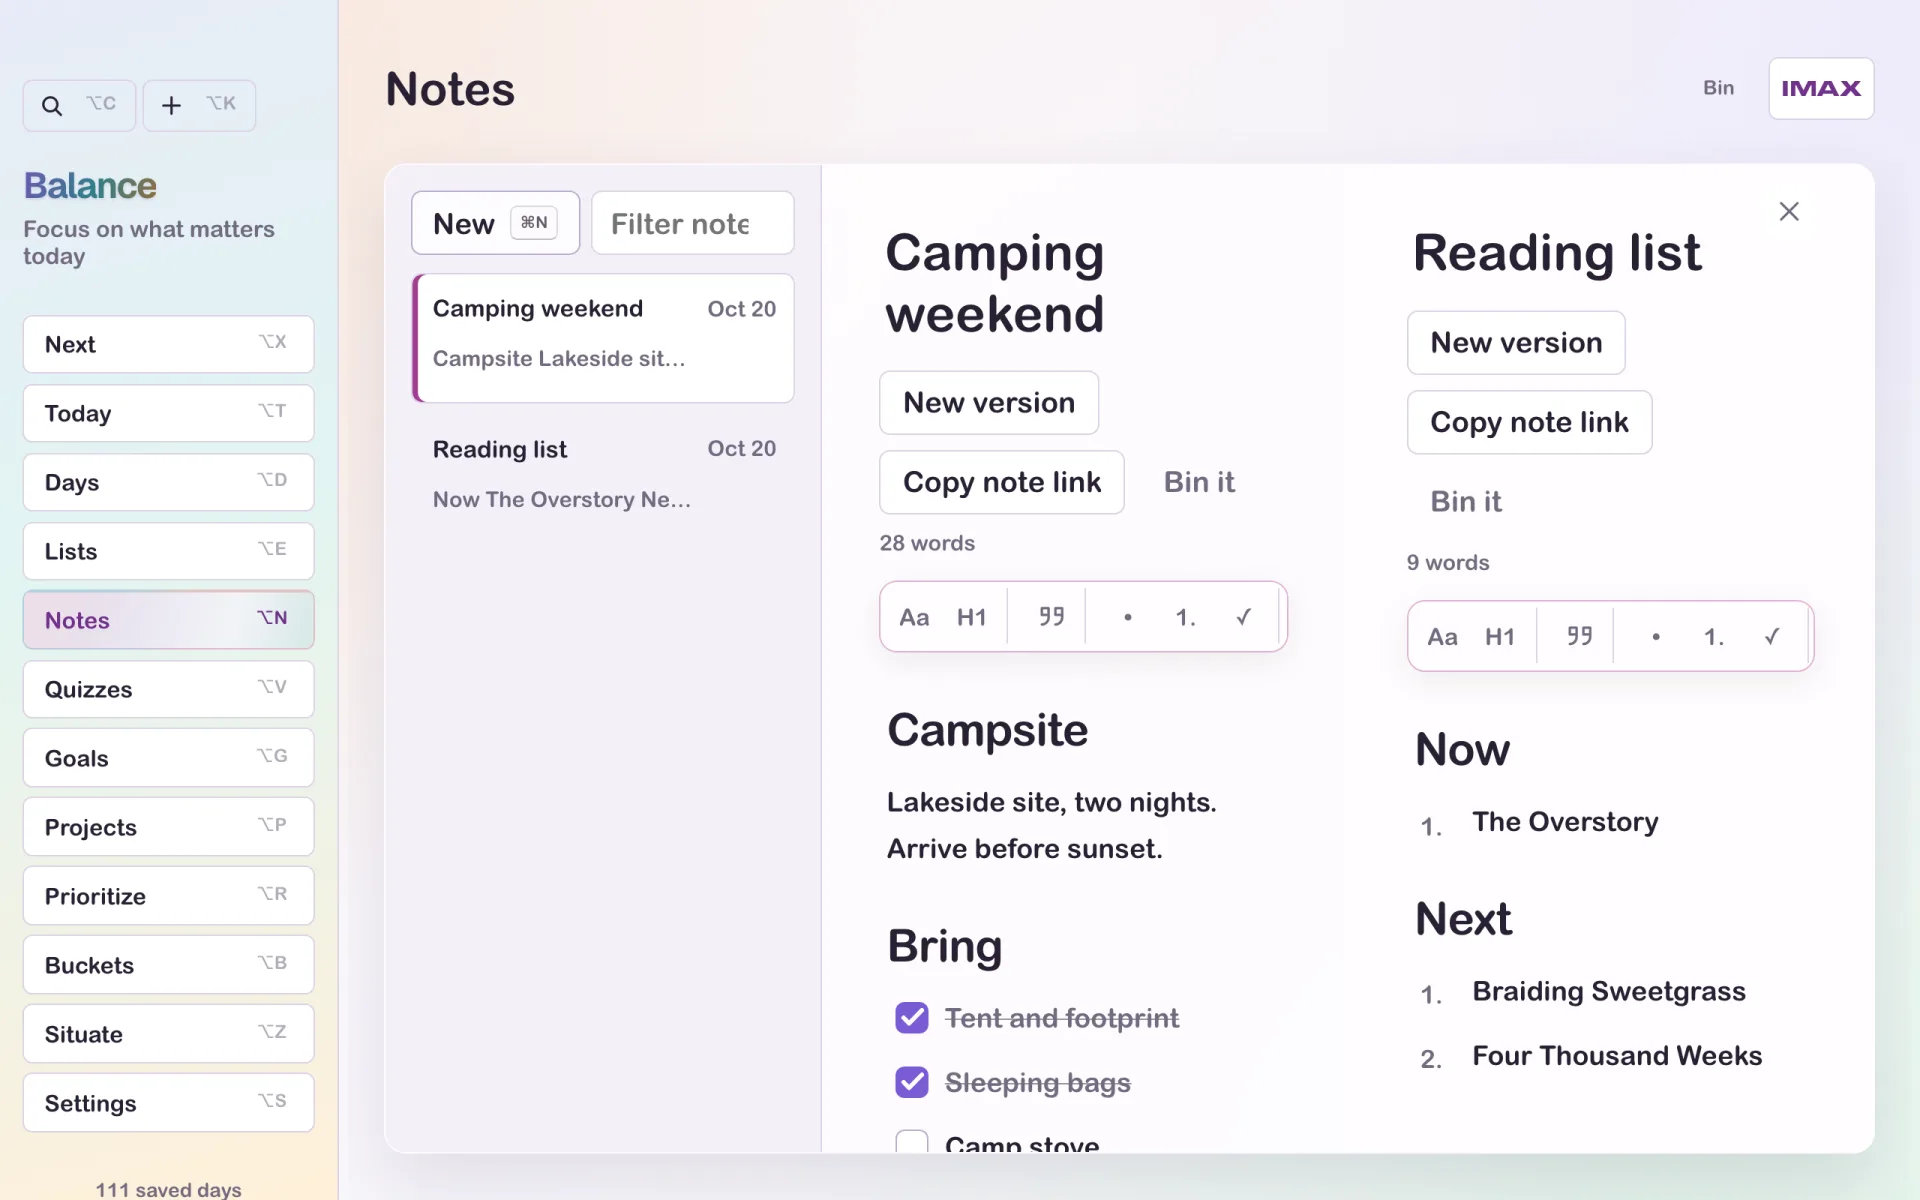
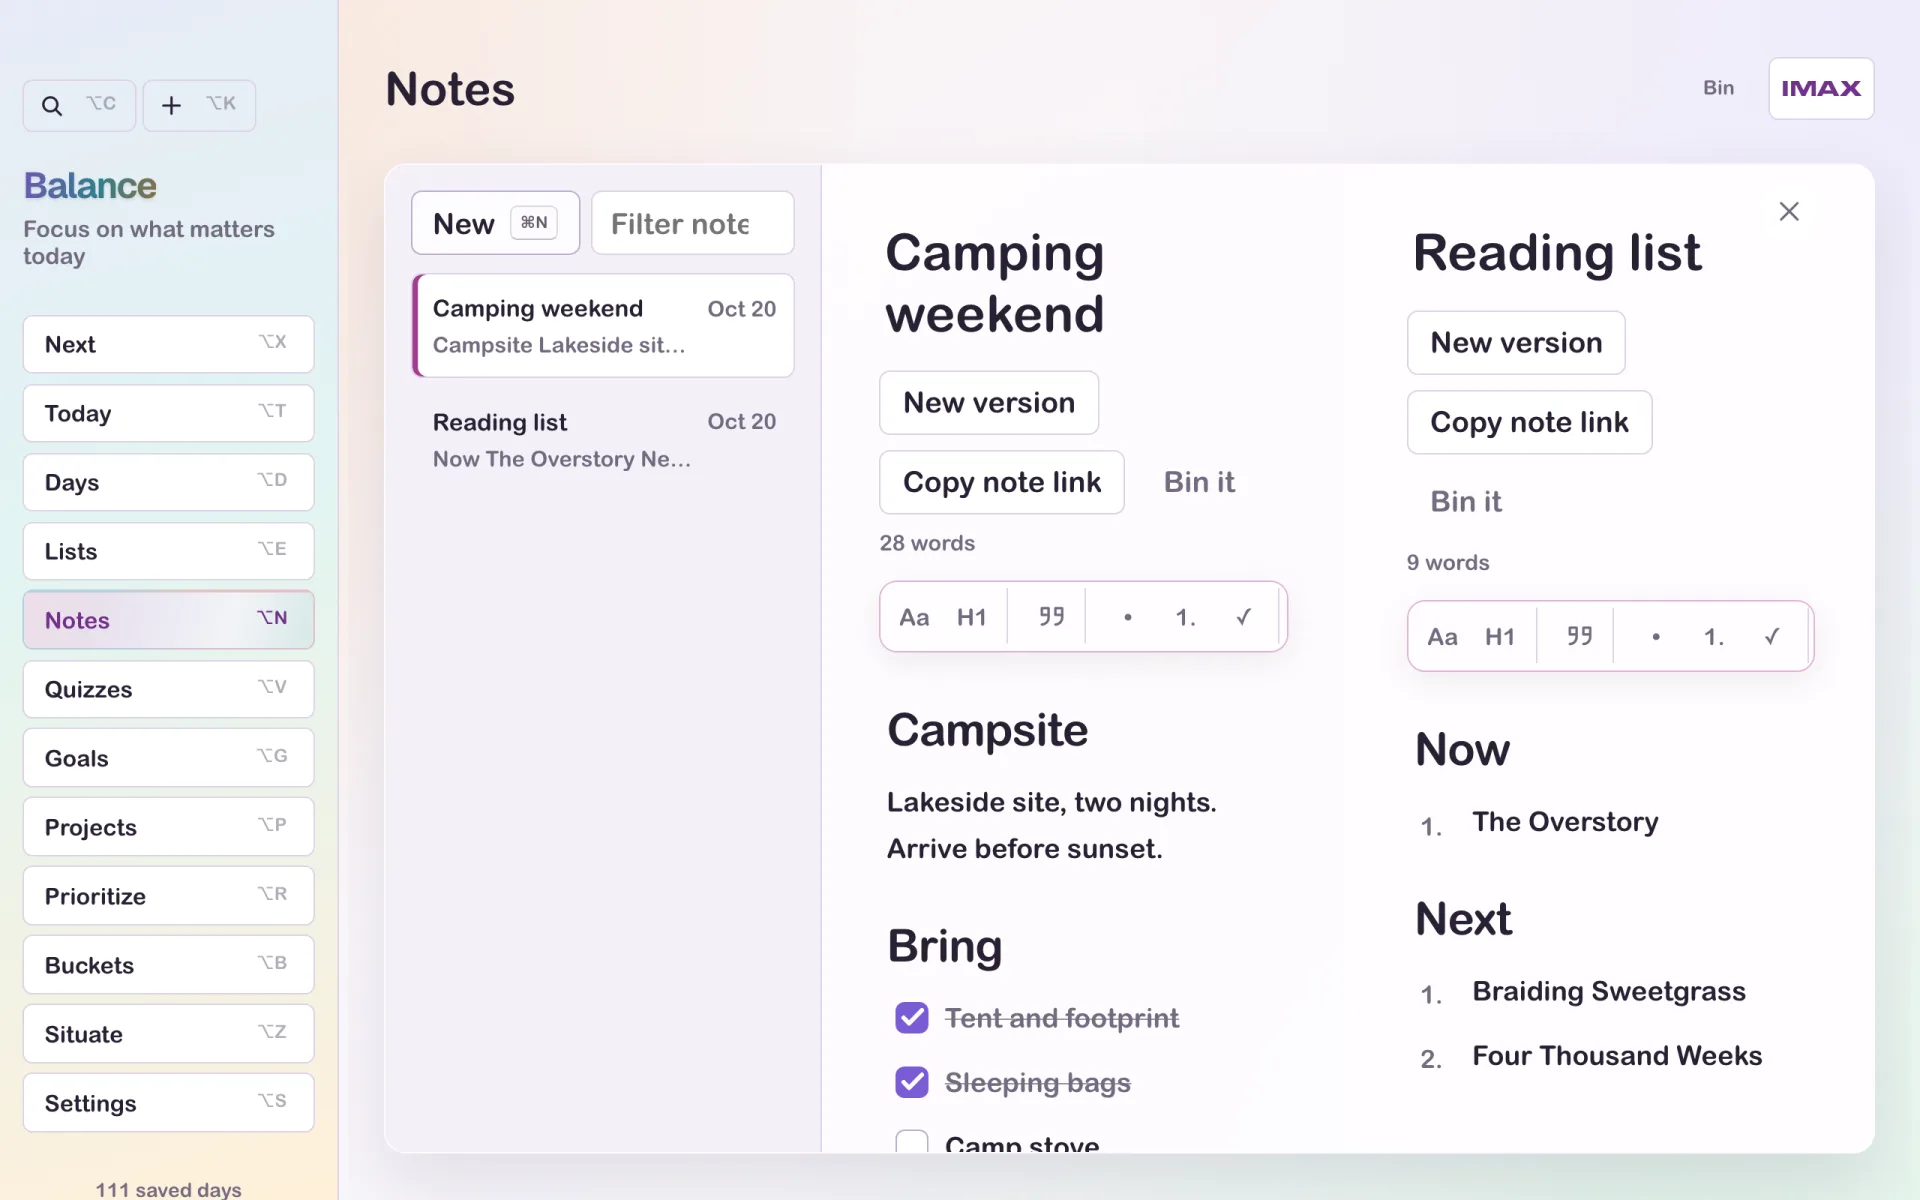
Restore compact note cards and fit the split button below dates

diff --git a/tests/visual/notes-side-by-side.spec.ts b/tests/visual/notes-side-by-side.spec.ts
@@ -21,6 +21,8 @@ test('notes open and edit independently beside each other, including in IMAX', a
   await card.hover()
   await expect(open).toHaveCSS('opacity', '1')
   async function expectSplitBelowDate() {
+    // A short card must stay compact as well as keeping its date unobscured.
+    expect(await card.locator('.note-card').evaluate((element) => element.clientHeight)).toBeLessThanOrEqual(64)
     const dateBounds = await card.locator('time').boundingBox()
     const splitBounds = await open.boundingBox()
     expect(dateBounds).not.toBeNull()

diff --git a/src/app.css b/src/app.css
@@ -6460,6 +6460,9 @@ body.mobile-checkbox-dragging {
 }
 
 .note-open-beside {
+  width: 24px;
+  height: 20px;
+  padding: 0;
   position: absolute;
   right: 8px;
   bottom: 7px;
@@ -6506,13 +6509,6 @@ body.mobile-checkbox-dragging {
   position: absolute;
   top: 12px;
   right: 0;
-}
-
-@media (min-width: 761px) {
-  /* Keep a separate space below the date even for a one-line, empty note. */
-  .note-card-row:has(.note-open-beside) .note-card {
-    min-height: 72px;
-  }
 }
 
 @media (max-width: 760px) {
